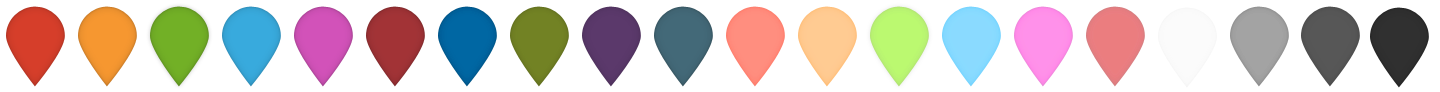
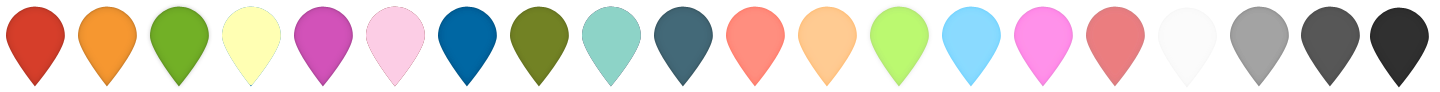
new functions and colours.

Changed region(s): [[0.25, 0.0652, 0.3125, 0.913], [0.1562, 0.0652, 0.2188, 0.913], [0.4062, 0.0652, 0.4688, 0.913]]

diff --git a/New code/My_CartoCV_leaflet.html b/New code/My_CartoCV_leaflet.html
@@ -9,14 +9,15 @@
   <script src="http://cdn.leafletjs.com/leaflet/v0.7.7/leaflet.js"></script>
   <script src="js/leaflet.awesome-markers.min.js"></script>
   <script src="leaflet.markercluster-src.js"></script>
+  <script src="https://npmcdn.com/@turf/turf@3.5.1/turf.min.js"></script>
 
-  <link href='https://api.mapbox.com/mapbox-gl-js/v0.28.0/mapbox-gl.css' rel='stylesheet' />
+  <link rel="stylesheet" href='https://api.mapbox.com/mapbox-gl-js/v0.28.0/mapbox-gl.css' />
   <link rel="stylesheet" href="http://cdn.leafletjs.com/leaflet-0.7.2/leaflet.css" />
-  <link rel="stylesheet" href="https://maxcdn.bootstrapcdn.com/font-awesome/4.5.0/css/font-awesome.min.css">
-  <link rel="stylesheet" href="style/stylesheet_leaflet.css">
-  <link rel="stylesheet" href="style/leaflet.awesome-markers.css">
+  <link rel="stylesheet" href="https://maxcdn.bootstrapcdn.com/font-awesome/4.5.0/css/font-awesome.min.css" />
+  <link rel="stylesheet" href="style/stylesheet_leaflet.css" />
+  <link rel="stylesheet" href="style/leaflet.awesome-markers.css" />
   <link rel="stylesheet" href="MarkerCluster.css" />
-	<link rel="stylesheet" href="MarkerCluster.Default.css" />
+  <link rel="stylesheet" href="MarkerCluster.Default.css" />
  </head>
 <body>
 
@@ -31,19 +32,16 @@
 			Education
     </button>
 	  <div id='eduContent' class="sidebarText">
-			testi
 	  </div>
       <button id='Job' class="JobEduOth">
         Job
       </button>
 	  <div id='jobContent' class="sidebarText">
-			testi
 	  </div>
       <button id='Other' class="JobEduOth">
 			Other
     </button>
 	  <div id='otherContent' class="sidebarText">
-			testi
 	  </div>
     </div>
   </div>
@@ -91,19 +89,22 @@ var map=new L.Map('map').setView([43.326139, 31.972922], 3);
 var eduMarker = L.AwesomeMarkers.icon({
 		icon: 'graduation-cap',
 		prefix: 'fa',
-		markerColor: 'darkpurple'
+		markerColor: 'darkpurple',
+		iconColor: 'black'
 	});
 
 var workMarker = L.AwesomeMarkers.icon({
 		icon: 'cogs',
 		prefix: 'fa',
-		markerColor: 'blue'
+		markerColor: 'blue',
+		iconColor: 'black'
 	});
 
 var otherMarker = L.AwesomeMarkers.icon({
 		icon: 'check-square-o',
 		prefix: 'fa',
-		markerColor: 'darkred'
+		markerColor: 'darkred',
+		iconColor: 'black'
 	});
 
 
@@ -125,6 +126,23 @@ console.log(data);
 var onEachFeature = function (feature, layer) {
 			layer.bindPopup("<b>" + feature.properties.title + "<br>" + feature.properties.org + "</b><br> Started: " + feature.properties.start + "<br> Ended: " + feature.properties.end + "<br><br><b> Description:</b> " + feature.properties.description);
 };
+
+// FUNCTION TO GET MARKER POINT FOR LINESTRINGS AND POLYGONS
+var lineToPoint = function (feature) {
+	linePoint = Math.round(feature.geometry.coordinates.length/2);
+	console.log(linePoint);
+	console.log(feature.geometry.coordinates[linePoint])
+	return feature.geometry.coordinates[linePoint]
+};
+
+
+	data.features.forEach(function(feature) {
+		if (feature.geometry.type == 'LineString') {
+			lineToPoint(feature)
+		}
+	})
+
+
 
 // ADD MARKERS ON MAP
 var eduMarkers = L.geoJson(data, {
@@ -163,6 +181,8 @@ var otherMarkers = L.geoJson(data, {
 		},
 		onEachFeature: onEachFeature
 	}).addTo(markerCluster);
+	
+
 
 
 // ADD LINES AND POLYGONS TO MAP
@@ -205,7 +225,7 @@ workFeatures.addTo(map);
 otherFeatures.addTo(map);
 markerCluster.addTo(map);
 
-// ABOVE IS CODE FOR THE MAO
+// ABOVE IS CODE FOR THE MAP
 //=================================//
 // BELOW IS CODE FOR THE SIDEBAR
 
@@ -228,6 +248,7 @@ data.features.forEach(function(feature) {
 	feature.properties.endMonth = endMonth;
 	feature.properties.endYear = endYear;
 });
+
 
 // SORTING GEOJSON IN DESCENDING ORDER. SOURCE: http://gis.stackexchange.com/questions/68369/how-do-i-sort-a-geojson-feature-collection-alphabetically-by-a-property-value
 function propSort(props) {
